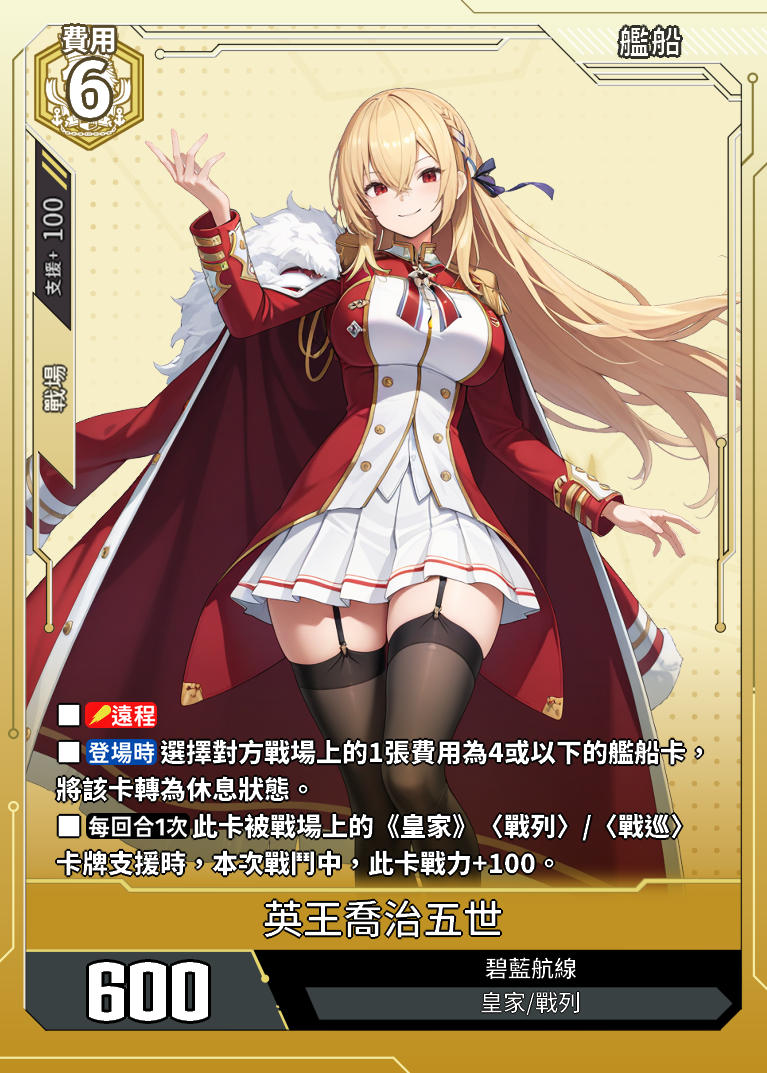
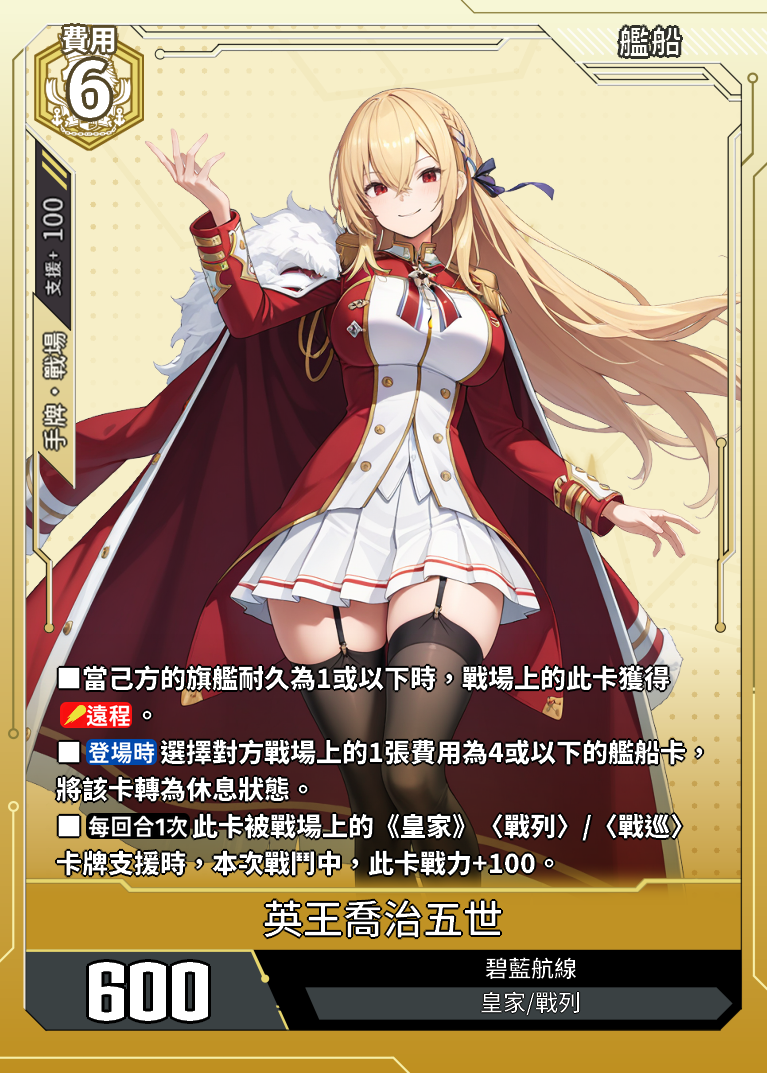
改喬五

Changed region(s): [[0.06, 0.6151, 0.8696, 0.6766], [0.03, 0.3075, 0.09, 0.4306]]

diff --git a/data.js b/data.js
@@ -24732,10 +24732,10 @@ const cards = [
             "艦船類型": "戰列",
             "罕　貴": "-",
             "勢　力": "碧藍航線",
-            "支援範圍": "戰場",
+            "支援範圍": "手牌·戰場",
             "支援值": "100"
         },
-        "card_effect": "■【遠程】■【登場時】選擇對方戰場上的1張費用為4或以下的艦船卡，將該卡轉為休息狀態。■【每回合1次】此卡被戰場上的《皇家》〈戰列〉/〈戰巡〉卡牌支援時，本次戰鬥中，此卡戰力+100。",
+        "card_effect": "■當己方的旗艦耐久為1或以下時，戰場上的此卡獲得【遠程】。■【登場時】選擇對方戰場上的1張費用為4或以下的艦船卡，將該卡轉為休息狀態。■【每回合1次】此卡被戰場上的《皇家》〈戰列〉/〈戰巡〉卡牌支援時，本次戰鬥中，此卡戰力+100。",
         "acquisition_method": "CE02-早期測試"
     },
 	{
